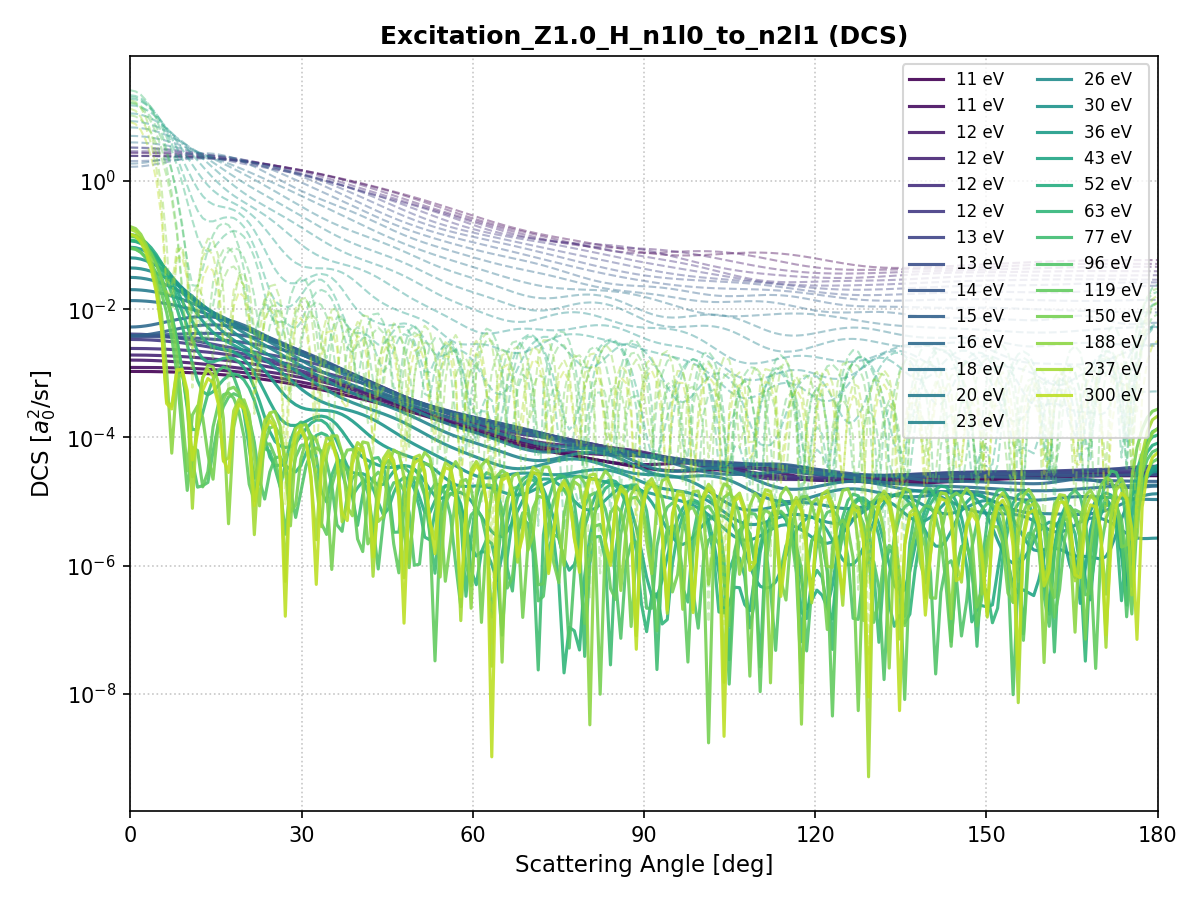
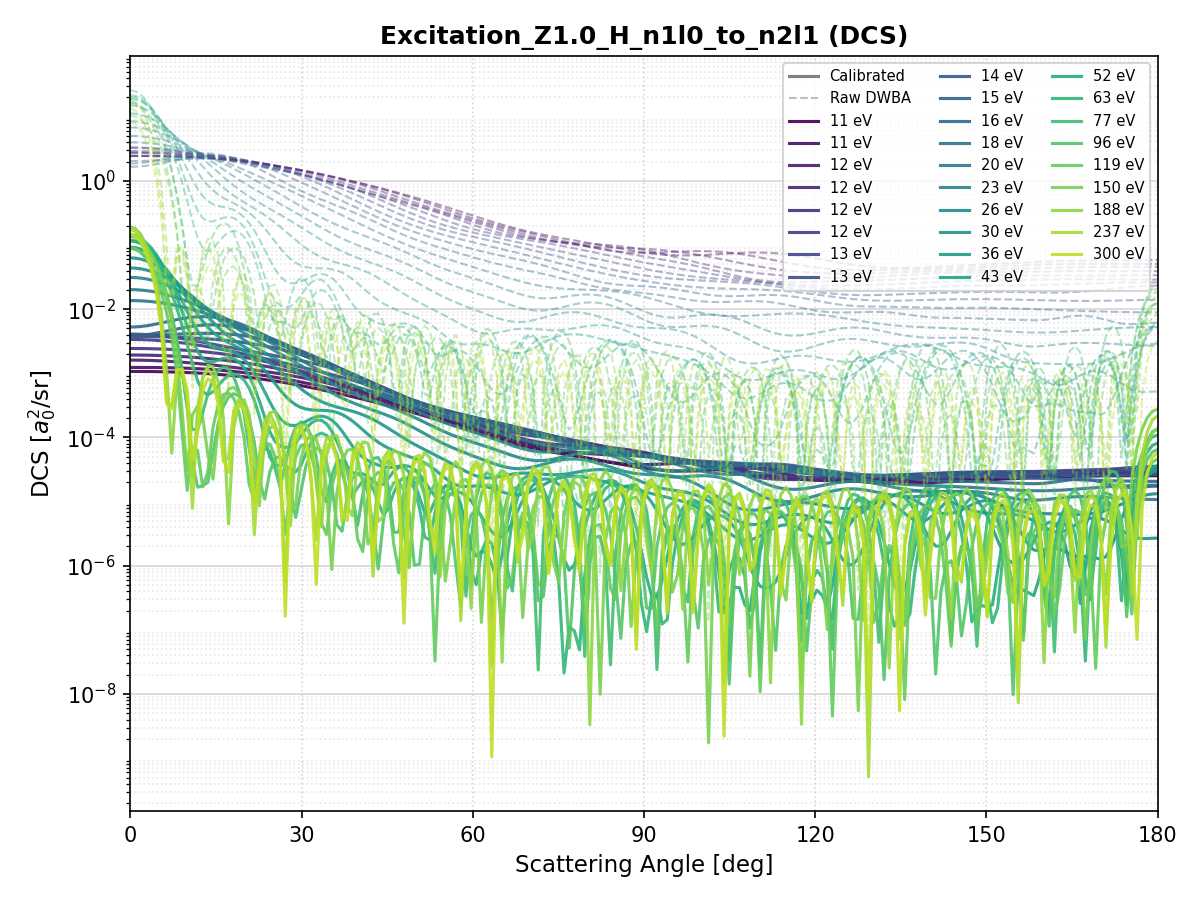
Edit_51

Changed region(s): [[0.6475, 0.0622, 0.9558, 0.4978]]

diff --git a/plotter.py b/plotter.py
@@ -127,6 +127,7 @@ def main():
             
             # Use colormap for different energies
             import matplotlib.cm as cm
+            from matplotlib.lines import Line2D
             n_entries = len(dcs_entries)
             colors = cm.viridis(np.linspace(0, 0.9, n_entries))
             
@@ -137,7 +138,7 @@ def main():
                 dcs_cal = np.array(p["dcs_au_calibrated"]) if p.get("dcs_au_calibrated") else None
                 if dcs_raw is None: continue
                 
-                # Plot calibrated (solid) with label, raw (dashed) without label
+                # Plot raw (dashed) and calibrated (solid)
                 color = colors[i]
                 ax.semilogy(theta, dcs_raw, '--', color=color, alpha=0.4, linewidth=1)
                 if dcs_cal is not None:
@@ -149,10 +150,28 @@ def main():
             ax.set_ylabel(ylab, fontsize=11)
             ax.set_xticks([0, 30, 60, 90, 120, 150, 180])
             ax.set_xlim(0, 180)
-            ax.grid(True, linestyle=':', alpha=0.7, which='both', axis='both')
+            
+            # Explicitly enable minor ticks for log scale (required for minor grid)
+            from matplotlib.ticker import LogLocator
+            ax.yaxis.set_minor_locator(LogLocator(subs='auto', numticks=12))
+            
+            # Draw gridlines
+            ax.grid(True, which='major', axis='y', linestyle='-', alpha=0.5, zorder=0)
+            ax.grid(True, which='minor', axis='y', linestyle=':', alpha=0.3, zorder=0)
+            ax.grid(True, which='major', axis='x', linestyle=':', alpha=0.5, zorder=0)
+            
             ax.set_title(f"{key} (DCS)", fontsize=12, fontweight='bold')
-            ax.legend(fontsize=8, ncol=2, loc='upper right')
+            
+            # Create custom legend with style info
+            handles, labels = ax.get_legend_handles_labels()
+            # Add style explanation entries
+            style_handles = [
+                Line2D([0], [0], color='gray', linestyle='-', linewidth=1.5, label='Calibrated'),
+                Line2D([0], [0], color='gray', linestyle='--', linewidth=1, alpha=0.5, label='Raw DWBA')
+            ]
+            ax.legend(handles=style_handles + handles, fontsize=7, ncol=3, loc='upper right')
             continue
+
         
         E_raw = np.array([p["energy_eV"] for p in pts])
         Sig_raw = np.array([p["sigma_cm2"] for p in pts])

diff --git a/driver.py b/driver.py
@@ -759,7 +759,8 @@ def compute_total_excitation_cs(
         sigma_total_au, sigma_total_cm2,
         k_i_au, k_f_au,
         theta_grid * 180.0 / np.pi,
-        total_dcs, # dcs_vals variable name was likely wrong in previous view, check context. But wait, local var was 'total_dcs'?
+        total_dcs,
+
         partial_waves_dict
     )
 
